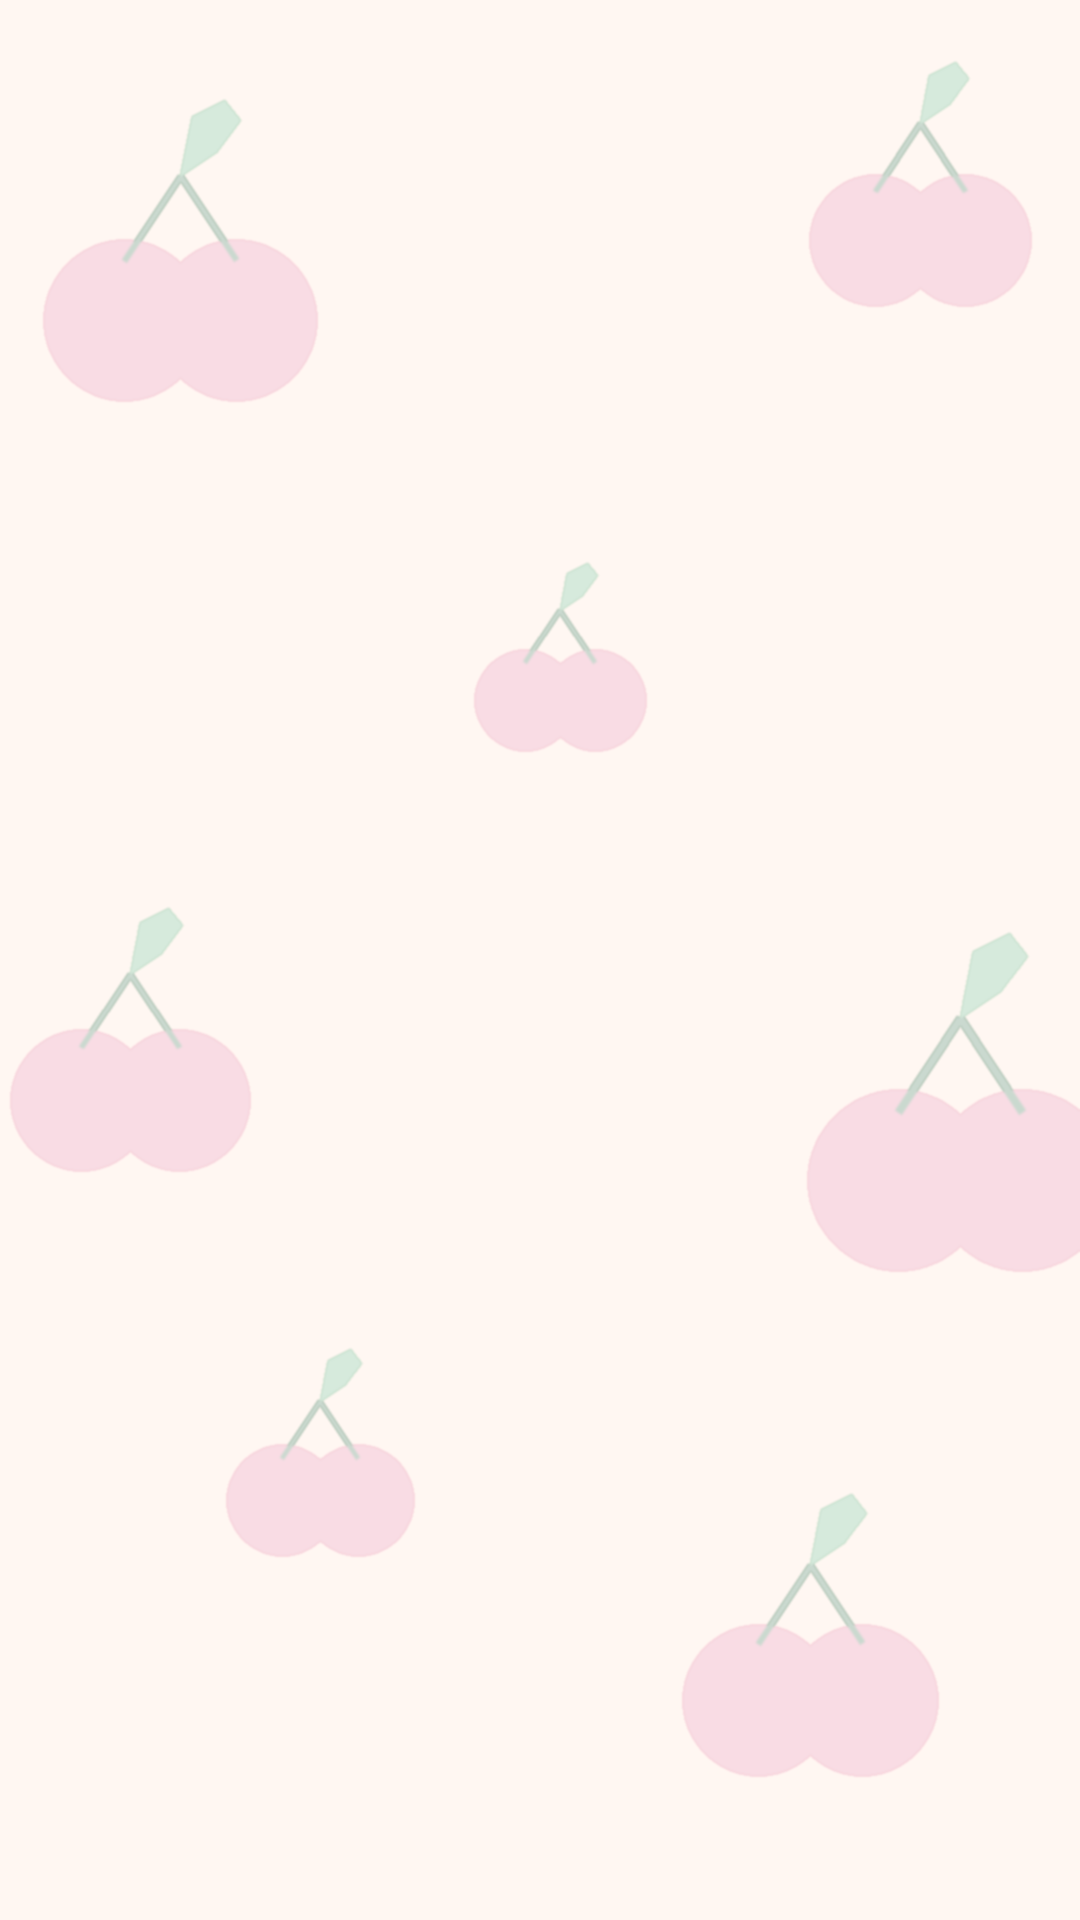
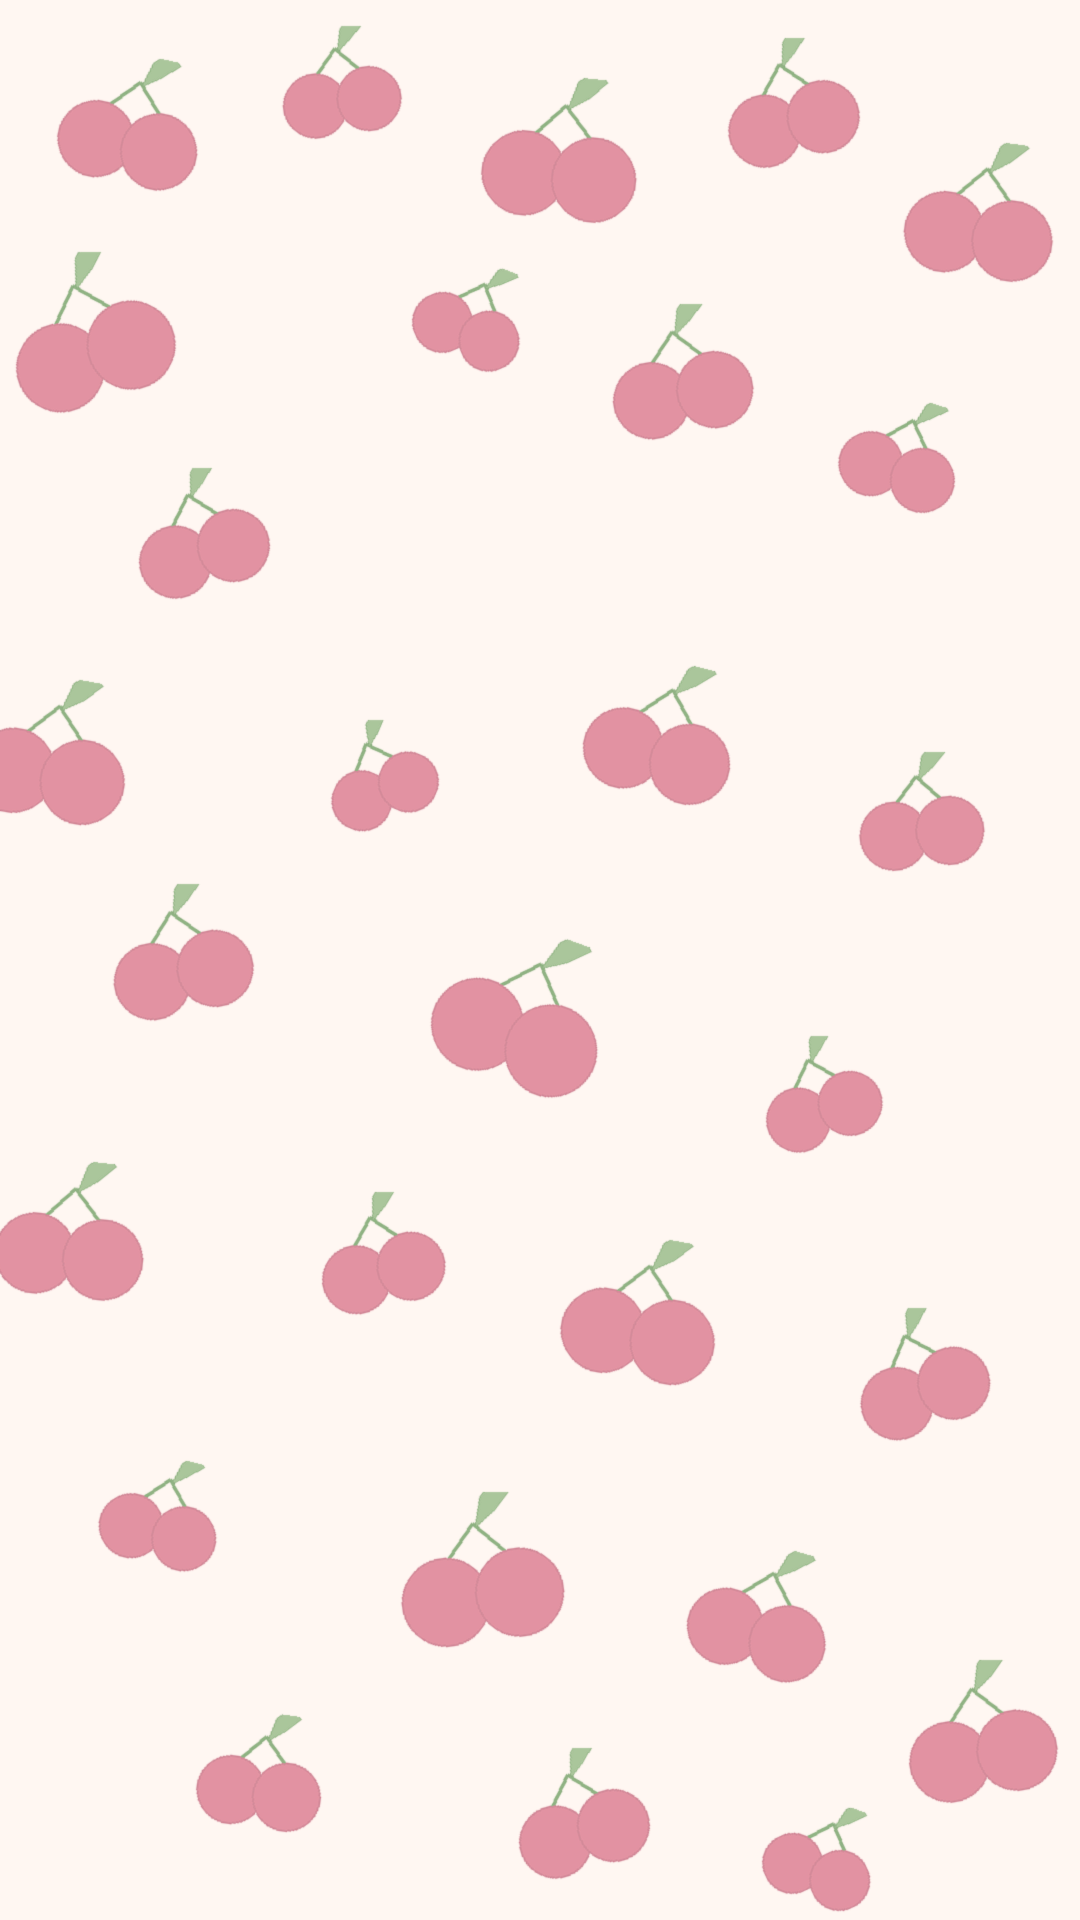
feat: arka plan kiraz pattern yogun ve canli + overlay azaltildi
- home_pattern.png: 28 kiraz (eskiden 7), daha doygun renkler, scattered
- HomeScreen overlay opacity 0.45 -> 0.25 (kirazlar daha net)

diff --git a/lib/features/home/home_screen.dart b/lib/features/home/home_screen.dart
@@ -116,7 +116,7 @@ class _HomeScreenState extends State<HomeScreen> {
           Positioned.fill(child: _buildBackground()),
           Positioned.fill(
             child: Container(
-              color: AppColors.background.withOpacity(0.45),
+              color: AppColors.background.withOpacity(0.25),
             ),
           ),
           SafeArea(